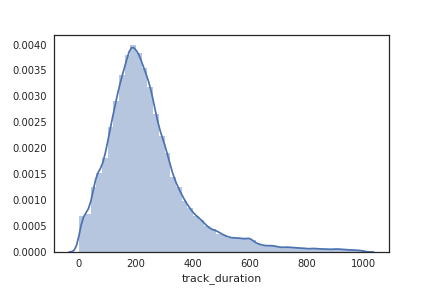
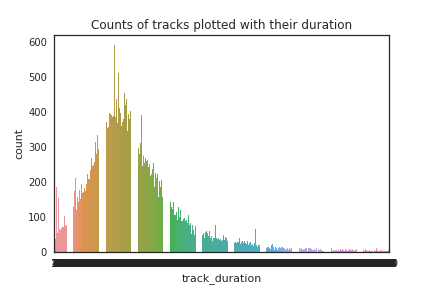
updates

diff --git a/main.py b/main.py
@@ -7,8 +7,8 @@ import seaborn as sns
 
 sns.set()
 
-DATA_DIR = os.getcwd() + "/Desktop/Projects/CS543-MusicGenreRecognition/Data/fma_metadata/"
-IMG_DIR = os.getcwd() + "/Desktop/Projects/CS543-MusicGenreRecognition/Images/"
+DATA_DIR = "/home/vedantc6/Desktop/Projects/CS543-MusicGenreRecognition/Data/fma_metadata/"
+IMG_DIR = "/home/vedantc6/Desktop/Projects/CS543-MusicGenreRecognition/Images/"
 
 #%%
 genres_df = pd.read_csv(DATA_DIR + "genres.csv", encoding="latin-1") 
@@ -43,11 +43,6 @@ print(features_df.head())
 ############# EDA ###############
 #################################
 
-# Number of unique number of tracks, artists, albums, genres
-print('{} tracks, {} artists, {} albums, {} genres'.format(len(tracks_df), 
-      len(artist_df['artist_id'].unique()), len(album_df), sum(genres_df['#tracks'] > 0)))
-
-#%%
 # Number of unique number of tracks, artists, albums, genres
 print('{} tracks, {} artists, {} albums, {} genres'.format(len(tracks_df), 
       len(artist_df['artist_id'].unique()), len(album_df), sum(genres_df['#tracks'] > 0)))
@@ -131,6 +126,6 @@ test = test[(test.track_duration > 0) & (test.track_duration < 1000)]
 test['track_duration'] = test.track_duration
 print("Mean duration of tracks present in the dataset: {} seconds".format(test.track_duration.mean()))
 
-g = sns.distplot(test.track_duration)
+g = sns.countplot(test.track_duration).set_title("Counts of tracks plotted with their duration")
 g.figure.savefig(IMG_DIR + "trackDuration.png")
 #%%
